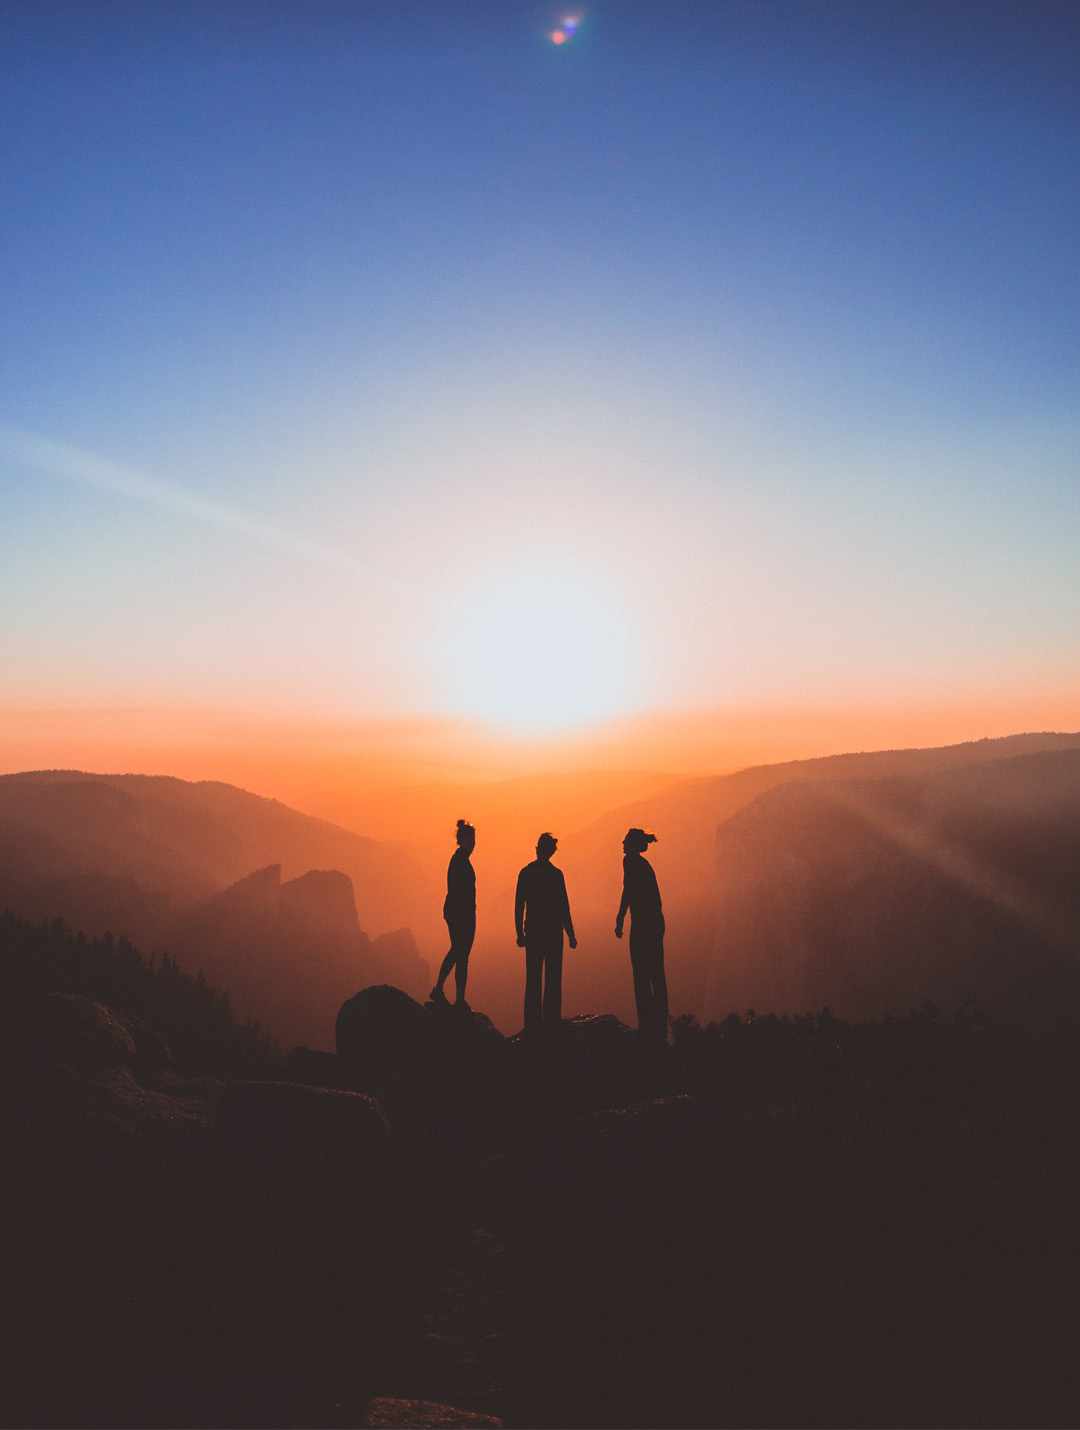
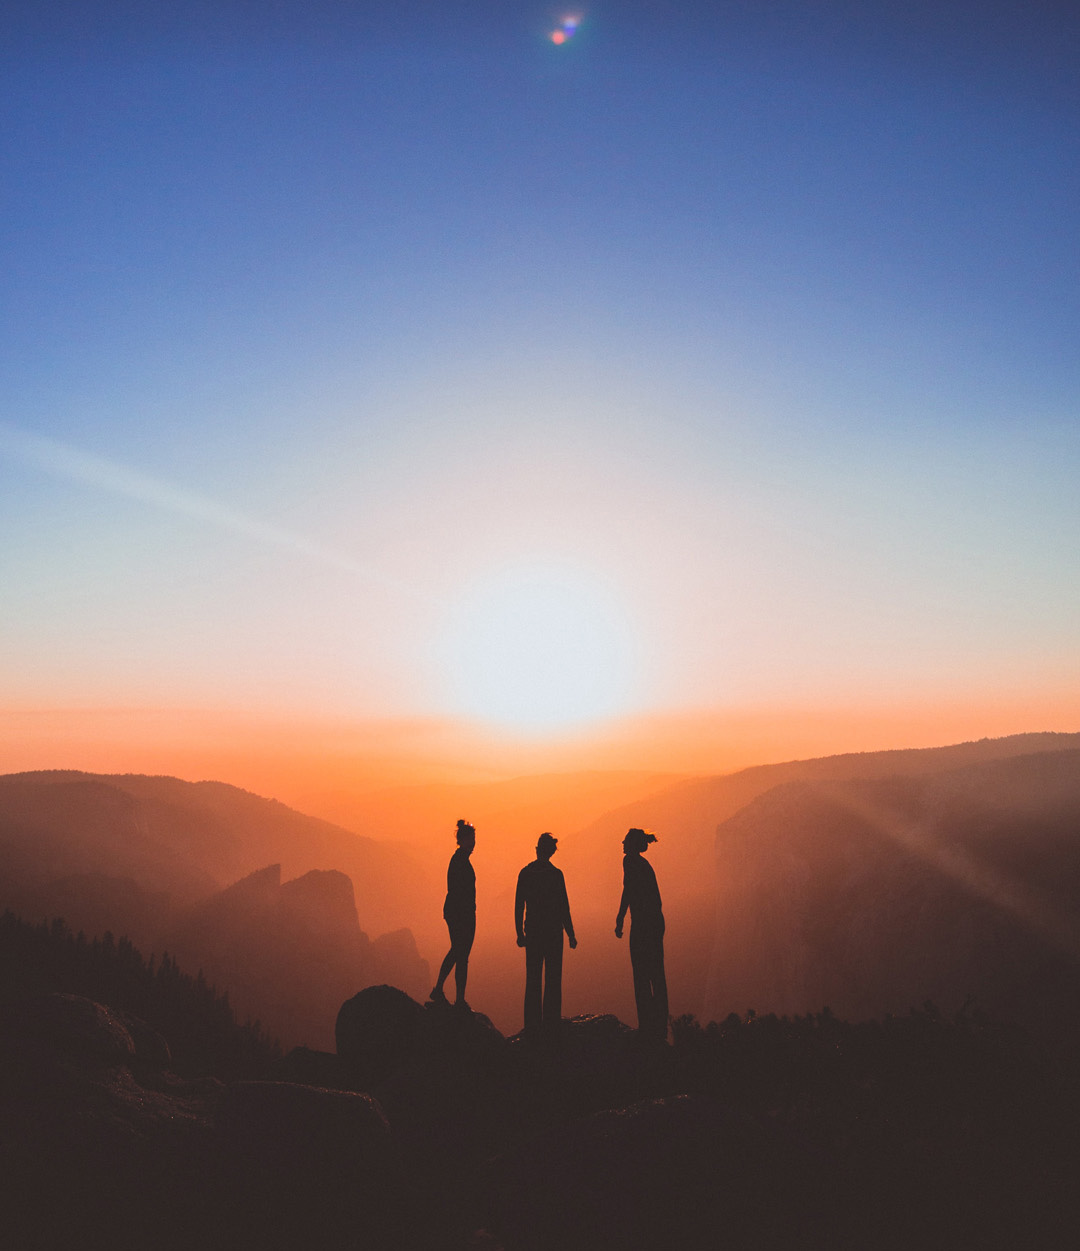
"Auth screen update" "adding a flex change - now it depends on keybord appearance,  collor fitting - image edited for collor match,  updated switching between creating and login to account,  added const style file"

diff --git a/lib/screens/authentication/widgets/auth_form_fields.dart b/lib/screens/authentication/widgets/auth_form_fields.dart
@@ -1,100 +1,114 @@
 import 'package:flutter/material.dart';
 import 'package:wish_list_app/models/auth_screen_bloc.dart';
 import 'package:wish_list_app/models/auth_scrren_event.dart';
+import 'package:wish_list_app/screens/authentication/widgets/text_field.dart';
 
-class AuthFormFields extends StatelessWidget {
-  const AuthFormFields({
-    Key? key,
-  }) : super(key: key);
+class AuthFormFields extends StatefulWidget {
+  AuthFormFields({required this.isKeybordVisible, Key? key}) : super(key: key);
+  final bool isKeybordVisible;
+  @override
+  State<AuthFormFields> createState() => _AuthFormFieldsState();
+}
 
+class _AuthFormFieldsState extends State<AuthFormFields> {
   @override
   Widget build(BuildContext context) {
     final deviceSize = MediaQuery.of(context).size;
     final _bloc = SigningInLogingInBloc();
+
     return Expanded(
       flex: 5,
       child: StreamBuilder<bool>(
           stream: _bloc.hasAccount,
           initialData: false,
           builder: (ctx, snapshot) {
-            return !snapshot.hasData
-                ? const CircularProgressIndicator()
-                : Container(
-                    constraints: BoxConstraints(minWidth: deviceSize.width),
-                    padding: const EdgeInsets.all(8),
-                    decoration: const BoxDecoration(
-                      boxShadow: [
-                        BoxShadow(
-                          color: Color(0xFF000000),
-                          blurRadius: 8,
-                          offset: Offset(0, -3),
+            bool haveAccount = snapshot.data!;
+            return Container(
+              constraints: BoxConstraints(minWidth: deviceSize.width),
+              padding: const EdgeInsets.all(8),
+              decoration: BoxDecoration(
+                boxShadow: const [
+                  BoxShadow(
+                    color: Color(0xFF000000),
+                    blurRadius: 8,
+                    offset: Offset(0, -3),
+                  ),
+                ],
+                color: const Color.fromARGB(255, 255, 255, 255),
+                borderRadius: BorderRadius.only(
+                  topLeft: const Radius.circular(60),
+                  bottomRight: widget.isKeybordVisible
+                      ? Radius.zero
+                      : const Radius.circular(60),
+                ),
+              ),
+              child: Form(
+                child: Column(
+                  mainAxisSize: MainAxisSize.max,
+                  mainAxisAlignment: MainAxisAlignment.spaceEvenly,
+                  children: [
+                    Text(haveAccount == true
+                        ? 'Log in to your account'
+                        : 'Create an Account'),
+                    TextFormField(
+                      decoration: InputDecoration(
+                        label: const Text('Email adress'),
+                        constraints: const BoxConstraints(maxWidth: 300),
+                        border: OutlineInputBorder(
+                          borderRadius: BorderRadius.circular(30),
+                          borderSide: const BorderSide(),
                         ),
+                      ),
+                    ),
+                    TextFormField(
+                      decoration: InputDecoration(
+                        border: OutlineInputBorder(
+                          borderRadius: BorderRadius.circular(30),
+                          borderSide: const BorderSide(),
+                        ),
+                        label: const Text('Password'),
+                        constraints: const BoxConstraints(maxWidth: 300),
+                      ),
+                    ),
+                    haveAccount
+                        ? const SizedBox.shrink()
+                        : const CustomTextFormField(
+                            textlabel: 'Submit password'),
+                    SizedBox(
+                      width: deviceSize.width,
+                      child: ElevatedButton(
+                        style: ElevatedButton.styleFrom(
+                            primary: const Color(0xFFf97e3e)),
+                        onPressed: () {},
+                        child:
+                            Text(haveAccount == true ? 'SIGN IN' : 'SIGN UP'),
+                      ),
+                    ),
+                    Row(
+                      mainAxisAlignment: MainAxisAlignment.spaceEvenly,
+                      children: [
+                        Text(haveAccount == true
+                            ? 'You dont have an account?'
+                            : 'If you have an account'),
+                        ElevatedButton(
+                          onPressed: () {
+                            _bloc.hasAccountEventSink.add(
+                                snapshot.data == true ? SignIn() : SignUp());
+                          },
+                          style: ElevatedButton.styleFrom(
+                              primary: Colors.transparent,
+                              shadowColor: Colors.transparent),
+                          child: Text(
+                            haveAccount == true ? 'CREATE' : 'SIGN IN',
+                            style: const TextStyle(color: Colors.black),
+                          ),
+                        )
                       ],
-                      color: Color.fromARGB(255, 255, 255, 255),
-                      borderRadius: BorderRadius.only(
-                        topLeft: Radius.circular(60),
-                        bottomRight: Radius.circular(60),
-                      ),
-                    ),
-                    child: Form(
-                      child: Column(
-                        mainAxisSize: MainAxisSize.max,
-                        mainAxisAlignment: MainAxisAlignment.spaceEvenly,
-                        children: [
-                          Text(snapshot.data == true
-                              ? 'Log in to your account'
-                              : 'Create an Account'),
-                          TextFormField(
-                            decoration: InputDecoration(
-                              label: const Text('Email adress'),
-                              constraints: const BoxConstraints(maxWidth: 300),
-                              border: OutlineInputBorder(
-                                borderRadius: BorderRadius.circular(30),
-                                borderSide: const BorderSide(),
-                              ),
-                            ),
-                          ),
-                          TextFormField(
-                            decoration: InputDecoration(
-                              border: OutlineInputBorder(
-                                borderRadius: BorderRadius.circular(30),
-                                borderSide: const BorderSide(),
-                              ),
-                              label: const Text('Password'),
-                              constraints: const BoxConstraints(maxWidth: 300),
-                            ),
-                          ),
-                          SizedBox(
-                            width: deviceSize.width,
-                            child: ElevatedButton(
-                              style: ElevatedButton.styleFrom(
-                                  primary: const Color(0xFFf97e3e)),
-                              onPressed: () {},
-                              child: const Text('SIGN IN'),
-                            ),
-                          ),
-                          Row(
-                            mainAxisAlignment: MainAxisAlignment.spaceEvenly,
-                            children: [
-                              const Text('You dont have an account?'),
-                              ElevatedButton(
-                                onPressed: () {
-                                  _bloc.hasAccountEventSink.add(SignUp());
-                                },
-                                style: ElevatedButton.styleFrom(
-                                    primary: Colors.transparent,
-                                    shadowColor: Colors.transparent),
-                                child: const Text(
-                                  'CREATE',
-                                  style: TextStyle(color: Colors.black),
-                                ),
-                              )
-                            ],
-                          )
-                        ],
-                      ),
-                    ),
-                  );
+                    )
+                  ],
+                ),
+              ),
+            );
           }),
     );
   }

diff --git a/lib/constants/theme_and_style.dart b/lib/constants/theme_and_style.dart
@@ -30,31 +30,29 @@ ElevatedButtonThemeData defoultElevatedButton = ElevatedButtonThemeData(
 
 class DefaultColorsPalette {
   static const MaterialColor defoultColorSwatch = MaterialColor(
-    0xFF02735E,
+    0xFFf97e3e,
     <int, Color>{
-      50: Color(0xFFcce3de), //10%
-      100: Color(0xff99c7be), //20%
-      200: Color(0xff67ab9e), //30%
-      300: Color(0xff348f7e), //40%
-      400: Color(0xff02735e), //50%
-      500: Color(0xff015c4b), //60%
-      600: Color(0x0ff14538), //70%
-      700: Color(0xff002e25), //80%
-      800: Color(0xff001712), //90%
+      50: Color(0xFFfff9e5), //10%
+      100: Color(0xffffeebd), //20%
+      200: Color(0xffffda6d), //30%
+      300: Color(0xffffbb49), //40%
+      400: Color(0xFFf97e3e), //50%
+      500: Color(0xffc76431), //60%
+      600: Color(0x0f7c3f1f), //70%
+      700: Color(0xff633218), //80%
+      800: Color(0xff31190c), //90%
       900: Color(0xff000000), //100%
     },
   );
   static const ColorScheme defoultColorScheme = ColorScheme.light(
-    primary: Color(0xFF02735E),
-    primaryContainer: Color(0xFFcce3de),
+    primary: Color(0xFFf97e3e),
+    primaryContainer: Color(0xFFfff9e5),
     onPrimary: Color(0xFFFFFFFF),
     onPrimaryContainer: Color(0xFF140b24),
-    secondary: Color(0xFF034159),
+    secondary: Color(0xFF4e6cac),
     onSecondary: Color(0xFFFFFFFF),
-    secondaryContainer: Color(0xFFccd9dd),
-    tertiary: Color(0xFF0CF25D),
-    onTertiary: Color(0xFF023012),
-    onSecondaryContainer: Color(0xFF1b240b),
+    secondaryContainer: Color(0xFFe6eaf3),
+    onSecondaryContainer: Color(0xFF070a11),
     background: Color(0xFFFFFFFF),
     surface: Color(0xFFFFFFFF),
     error: Colors.red,

diff --git a/lib/screens/authentication/authentication_screen.dart b/lib/screens/authentication/authentication_screen.dart
@@ -9,8 +9,13 @@ class AuthenticationScreen extends StatefulWidget {
 }
 
 class _AuthenticationScreenState extends State<AuthenticationScreen> {
+  static const MAIN_FLEX_VALUE = 5;
+  static const FOCUSED_FIELD_FLEX_VALUE = 1;
+
   @override
   Widget build(BuildContext context) {
+    bool isKeybordVisible = MediaQuery.of(context).viewInsets.bottom != 0;
+
     return Scaffold(
       backgroundColor: const Color(0xFF2f2725),
       body: GestureDetector(
@@ -22,17 +27,19 @@ class _AuthenticationScreenState extends State<AuthenticationScreen> {
           mainAxisAlignment: MainAxisAlignment.spaceBetween,
           children: [
             Expanded(
-              flex: 4,
+              flex:
+                  isKeybordVisible ? FOCUSED_FIELD_FLEX_VALUE : MAIN_FLEX_VALUE,
               child: Container(
                 decoration: const BoxDecoration(
                   image: DecorationImage(
+                    alignment: Alignment.bottomCenter,
                     fit: BoxFit.fitWidth,
                     image: AssetImage('assets/auth-image.jpg'),
                   ),
                 ),
               ),
             ),
-            const AuthFormFields(),
+            AuthFormFields(isKeybordVisible: isKeybordVisible),
           ],
         ),
       ),

diff --git a/lib/screens/authentication/widgets/text_field.dart b/lib/screens/authentication/widgets/text_field.dart
@@ -1,0 +1,20 @@
+import 'package:flutter/material.dart';
+
+class CustomTextFormField extends StatelessWidget {
+  final String textlabel;
+  const CustomTextFormField({required this.textlabel ,Key? key}) : super(key: key);
+
+  @override
+  Widget build(BuildContext context) {
+    return TextFormField(
+      decoration: InputDecoration(
+        border: OutlineInputBorder(
+          borderRadius: BorderRadius.circular(30),
+          borderSide: const BorderSide(),
+        ),
+        label: Text(textlabel),
+        constraints: const BoxConstraints(maxWidth: 300),
+      ),
+    );
+  }
+}
